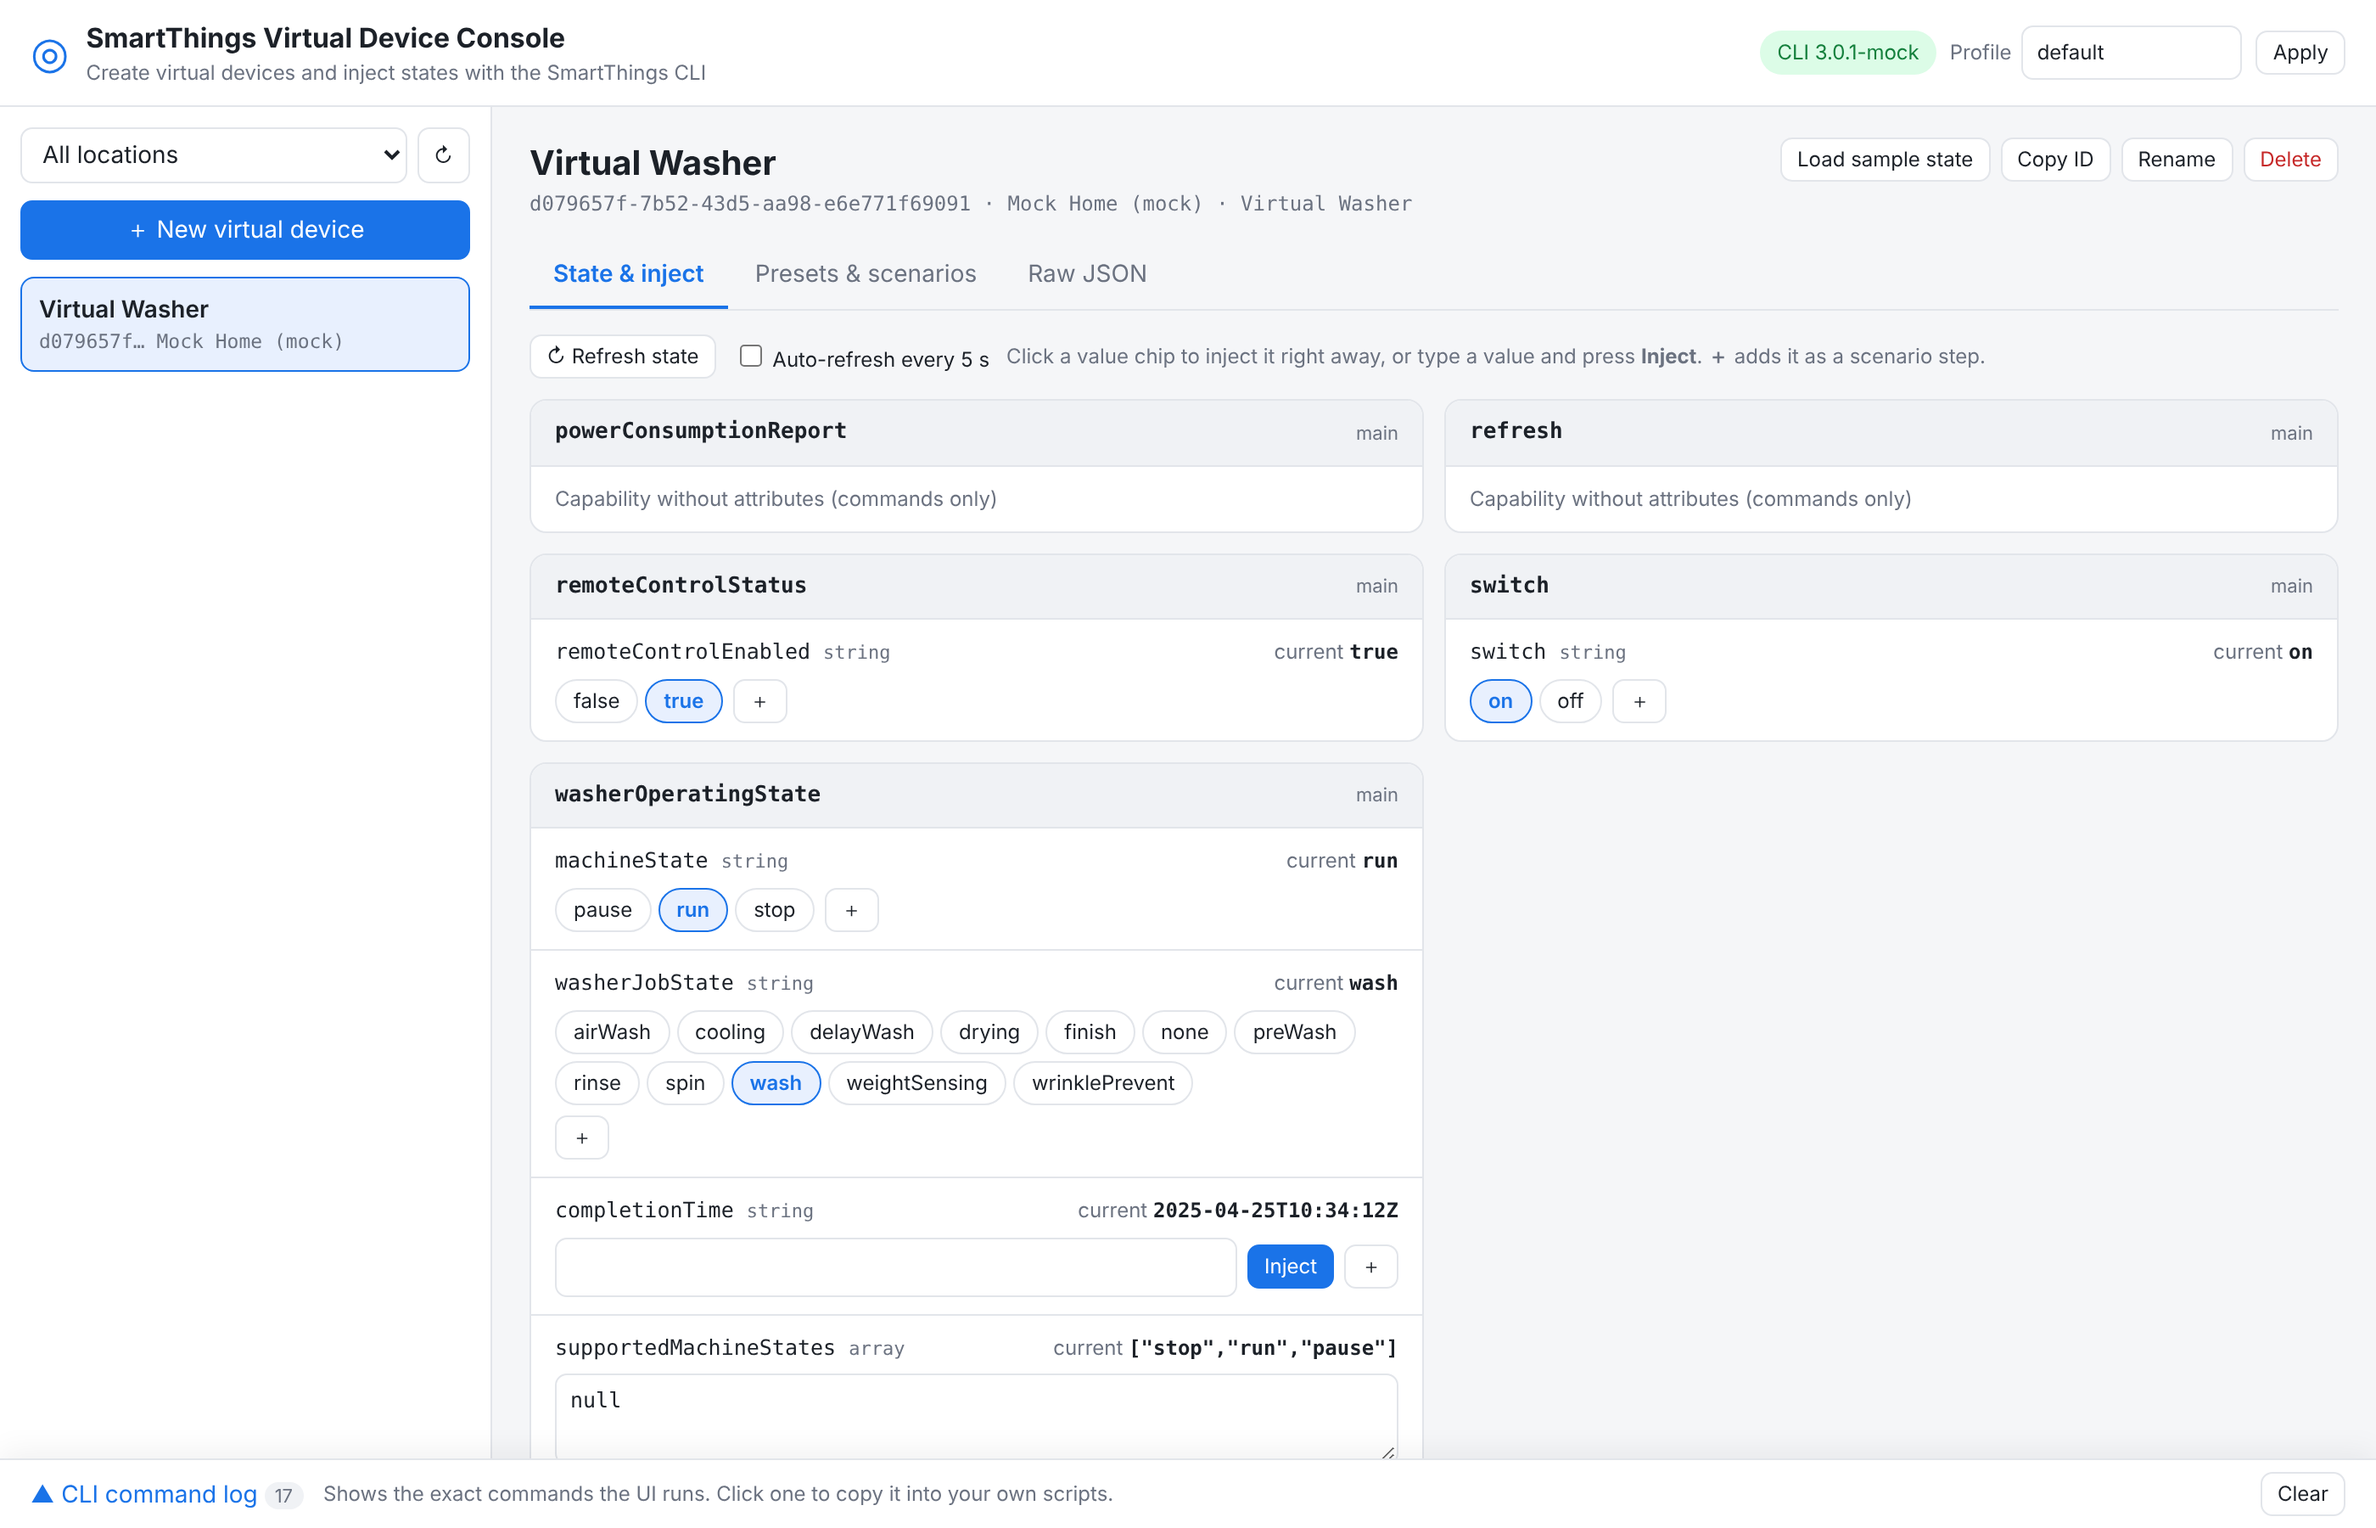
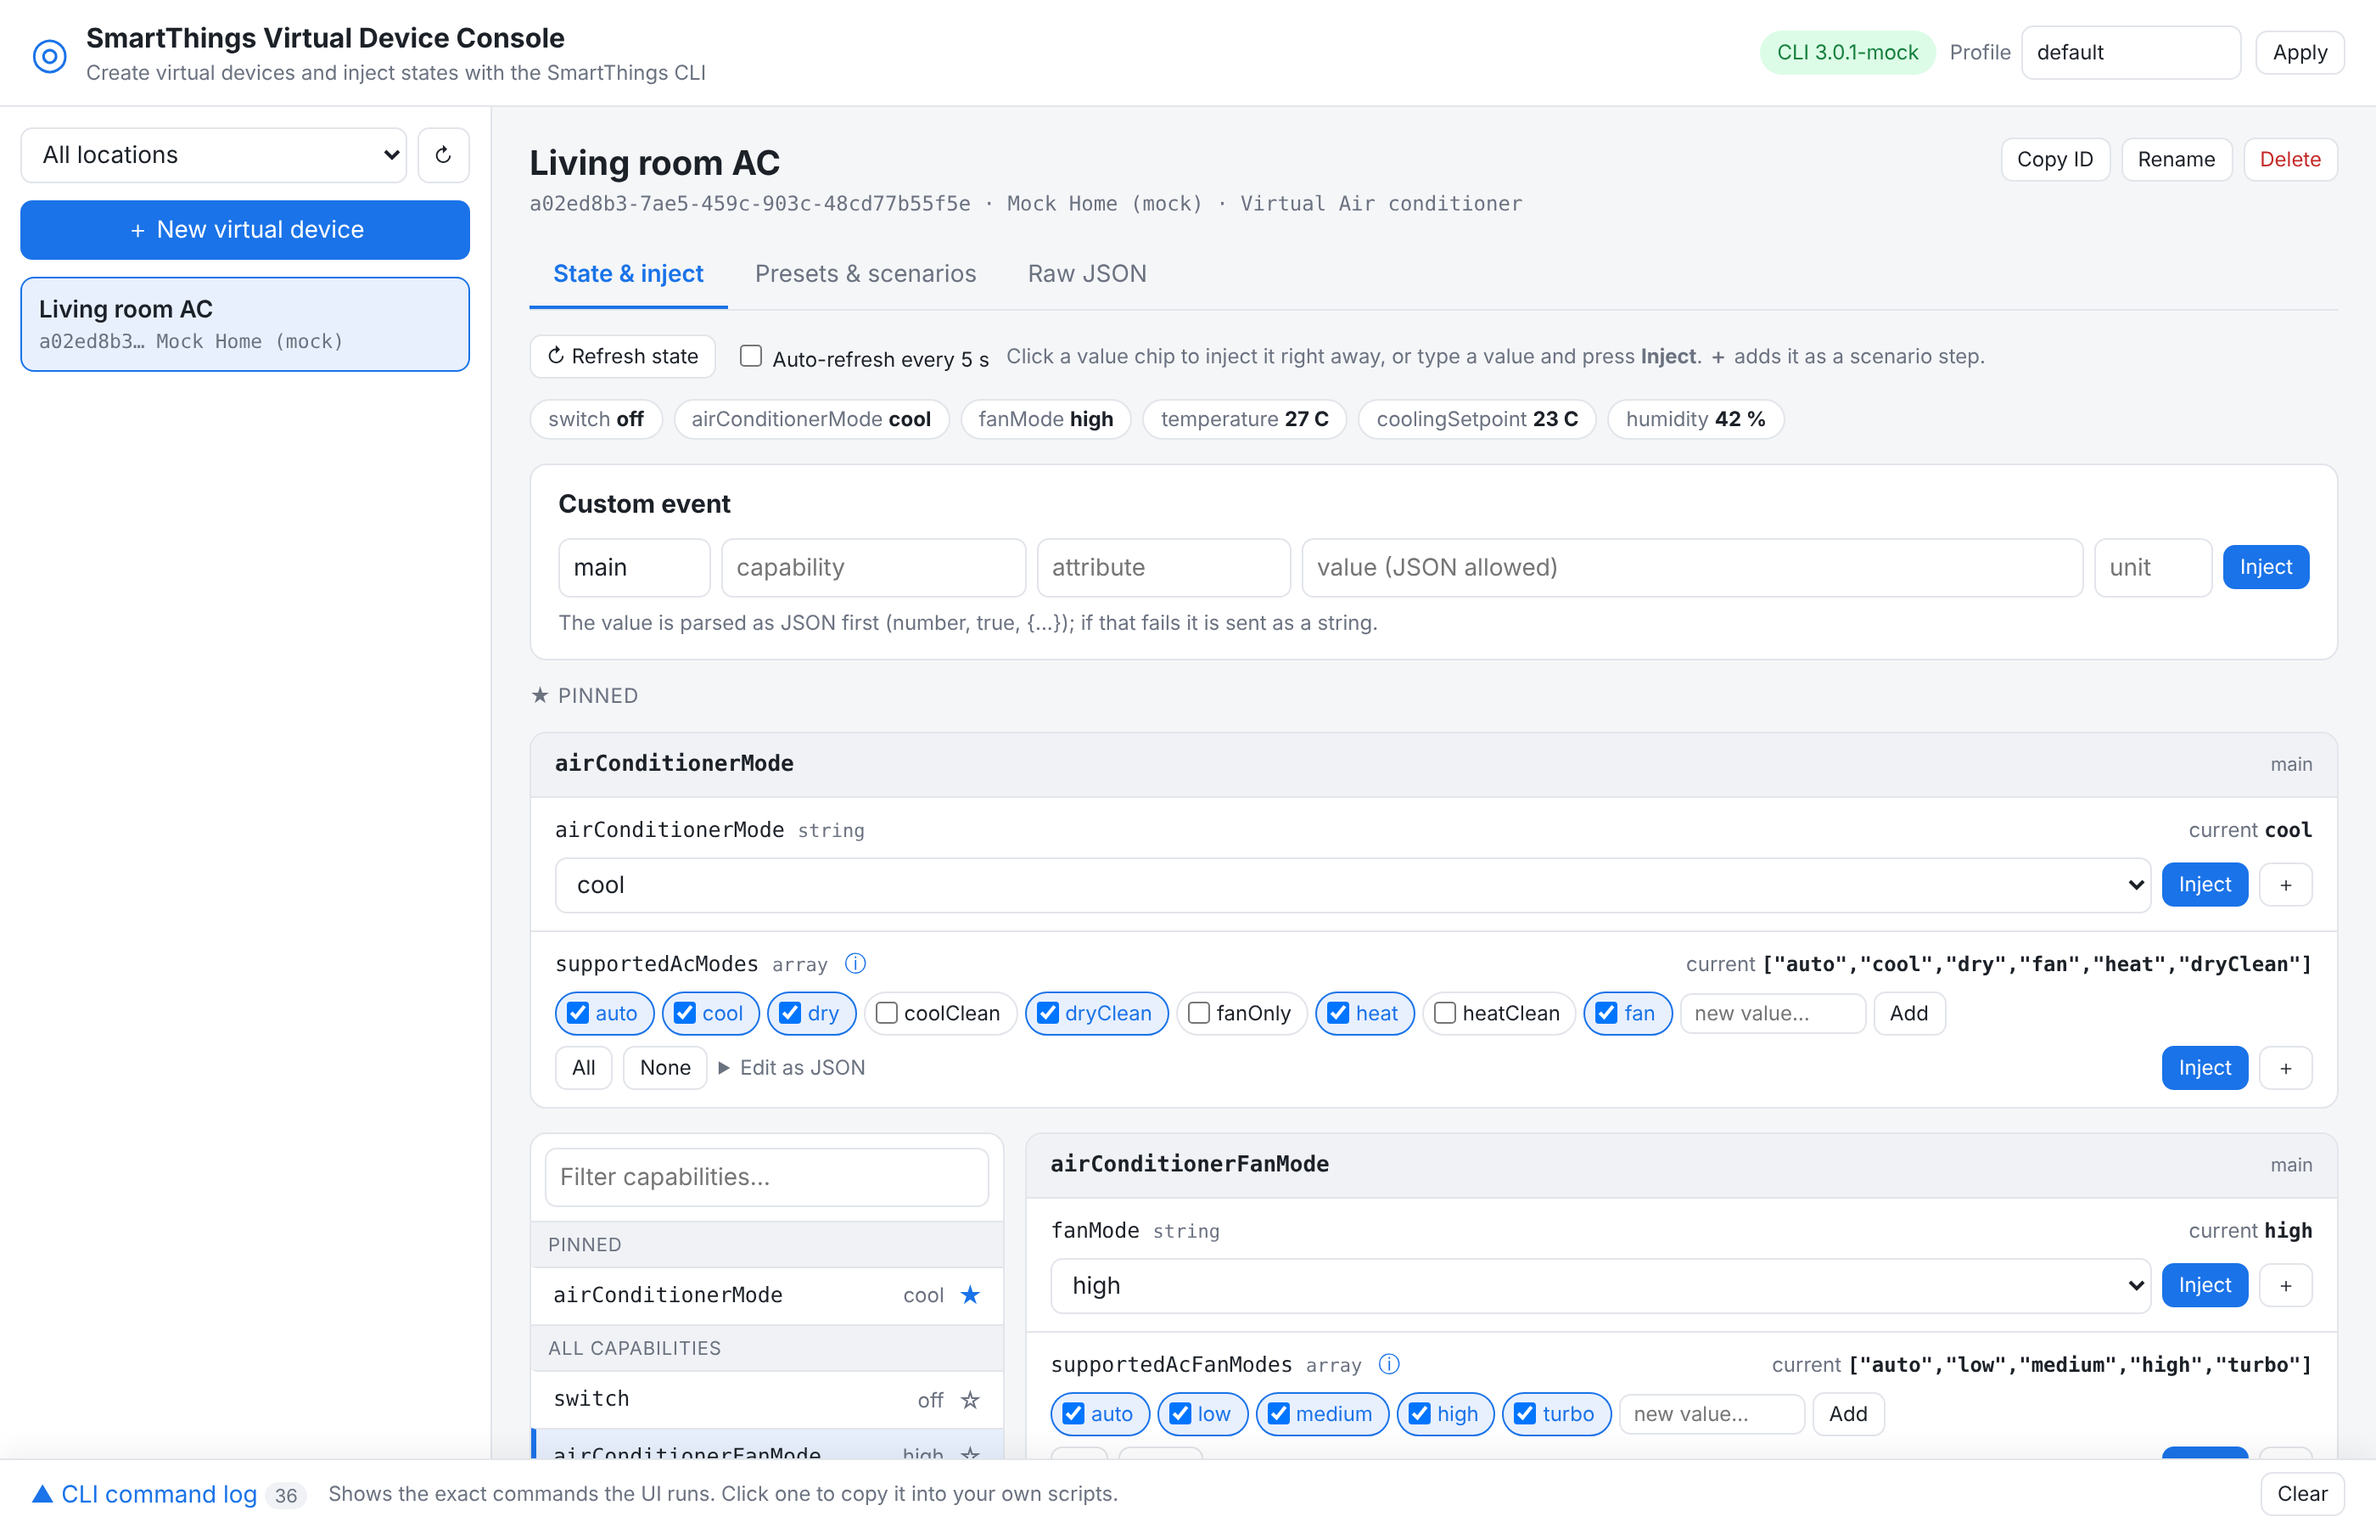
Document today's UI changes in README and refresh screenshot (#5)
Claude-Session: https://claude.ai/code/session_01KswgxVqma3ZtuyPV9o17wQ

diff --git a/README.md b/README.md
@@ -10,6 +10,7 @@ A local GUI that wraps the [SmartThings CLI](https://github.com/SmartThingsCommu
 - The server listens on `127.0.0.1` only and rejects requests from other origins.
 - Every CLI command the UI runs is shown in the **CLI command log** at the bottom, so you can copy it into your own scripts.
 - Write operations (inject events, rename, delete) are only allowed on virtual devices.
+- Runs on macOS, Windows and Linux.
 
 ## Quick start
 
@@ -37,7 +38,7 @@ Run:
 
 ```bash
 # run without installing anything
-npx github:Twohyunpa/SmartThings_Virtual
+npx --yes github:Twohyunpa/SmartThings_Virtual
 
 # or clone and run (Windows / macOS / Linux)
 git clone https://github.com/Twohyunpa/SmartThings_Virtual.git
@@ -74,17 +75,25 @@ npm test
 ## Features
 
 **Create virtual devices**
+
+The **New virtual device** panel has four tabs, and each tab shows a short explanation of what it does and when to use it.
+
 - Appliance templates: 35 real models (washers, dryers, dishwashers, air conditioners, air purifiers, refrigerators, robot vacuums, ovens, a cooktop, a range hood, a TV, a soundbar ...). Their capability lists and sample attribute values are taken from real devices, see [Where the templates come from](#where-the-templates-come-from). You can open the profile JSON and add or remove capabilities.
 - Standard prototypes such as `VIRTUAL_SWITCH` and `VIRTUAL_MOTION_SENSOR` (17 in total, `virtualdevices:create-standard`).
 - Create from one of your own device profile IDs, or paste a profile JSON (`virtualdevices:create`).
 - The dry-run button shows the request JSON without creating anything.
 
 **State & inject**
-- A capability list on the left (with each capability's current value, a filter box and pins) and the details of the selected capability on the right; a one-line state summary sits on top. Your last selection and pins are remembered per device.
+- Two-pane layout: a capability list on the left (each entry shows its current value, with a filter box) and the details of the selected capability on the right.
+- A one-line **state summary** bar sits on top; click an item to jump to that capability.
+- **Custom event** (component / capability / attribute / value / unit) is always at the top of the right pane.
+- Star (☆/★) the capabilities you use often. Pinned capabilities move to a *Pinned* group at the top of the list and stay open right under Custom event, in pin order. Your last selection and pins are remembered per device.
 - Shows the attributes of every component / capability with their current values.
 - Controls are generated from the capability definitions: enums become chips (click to inject immediately), numbers get a slider / input plus a unit, arrays and objects take JSON.
 - Values that have a matching `supported*` / `available*` list (e.g. `fanMode` ↔ `supportedAcFanModes` / `availableAcFanModes`) become a dropdown filled from the device's **current** list, and the lists themselves become checkboxes. The options follow the device state, so after you inject a new supported list the dropdown updates. Pick **Custom value…** (or **Edit as JSON**) to inject a value outside the list, e.g. to test how an app handles invalid input. Values outside `available*` are marked ⚠.
-- Optional 5-second auto-refresh, and a custom event form (component / capability / attribute / value / unit).
+- `supported*` / `available*` lists are edited as a checkbox list: tick or untick values, type a new one and press **Enter** or click **Add**, then **Inject**. A value still in the text box is included when you inject.
+- An **ⓘ** button next to every `supported*` / `available*` attribute explains the difference: `supported*` is what the device model can ever do, `available*` is what can be chosen right now, a subset that changes with the current mode. Tip: inject a shorter `available*` list to check that your app hides or blocks the rest.
+- Optional 5-second auto-refresh.
 
 **Presets & scenarios**
 - Template presets (e.g. start wash → rinse → spin → finished) appear automatically when they match the device's capabilities.
@@ -92,6 +101,8 @@ npm test
 - Scenarios are stored in your browser (localStorage) and can be imported / exported as JSON.
 
 **Also**: rename, delete, raw JSON view (`devices`, `devices:status`), and the CLI command log (click an entry to copy it).
+
+**Error handling**: when a CLI command fails, the error is shown in the UI with a clearer message and also printed to the terminal (`[cli failed] ...`). The server keeps running after unexpected errors, and tells you if port 3700 is already in use (start on another port with `PORT=3800 npm start`).
 
 ## Where the templates come from
 

diff --git a/README.ko.md b/README.ko.md
@@ -36,7 +36,7 @@ SmartThings CLI(`smartthings`)를 감싼 로컬 GUI입니다. 브라우저에서
 
 ```bash
 # 설치 없이 바로 실행
-npx github:Twohyunpa/SmartThings_Virtual
+npx --yes github:Twohyunpa/SmartThings_Virtual
 
 # 또는 저장소를 받아서 실행 (Windows/macOS/Linux 공통)
 git clone https://github.com/Twohyunpa/SmartThings_Virtual.git
@@ -74,16 +74,23 @@ npm test
 ## 기능
 
 **가상 기기 만들기**
-- 삼성 가전 템플릿: 세탁기, 건조기, 에어컨, 공기청정기, 로봇청소기, 식기세척기, TV, 냉장고. 프로필 정의(JSON)를 열어서 capability를 더하거나 뺄 수 있습니다. 템플릿은 `templates/samsung-appliances.json` 에서 고치면 됩니다.
+**New virtual device** 패널의 탭 4개에는 각각 무엇을 하는 탭이고 언제 쓰는지 짧은 설명이 붙어 있습니다.
+
+- Appliance templates: 세탁기, 건조기, 식기세척기, 에어컨, 공기청정기, 냉장고, 로봇청소기, 오븐, TV 등 실제 모델 35종. 프로필 정의(JSON)를 열어서 capability를 더하거나 뺄 수 있습니다.
 - 표준 프로토타입: `VIRTUAL_SWITCH`, `VIRTUAL_MOTION_SENSOR` 등 17종 (`virtualdevices:create-standard`)
 - 내 디바이스 프로필 ID로 만들기, 또는 프로필 JSON 직접 입력 (`virtualdevices:create`)
 - dry-run 버튼으로 실제 생성 없이 요청 JSON을 확인할 수 있습니다.
 
 **상태 & 주입**
+- 왼쪽은 capability 목록(현재 값 표시, 필터), 오른쪽은 선택한 capability의 상세입니다. 맨 위에는 한 줄 상태 요약 바가 있고, 누르면 해당 capability로 이동합니다.
+- **Custom event**(component/capability/attribute/value/unit 직접 입력)는 오른쪽 맨 위에 항상 있습니다.
+- 자주 쓰는 capability는 별표(☆/★)로 고정하세요. 목록 맨 위 *Pinned* 그룹으로 올라가고, Custom event 바로 아래에 항상 펼쳐집니다. 마지막 선택과 고정 목록은 기기별로 기억됩니다.
 - 기기의 component/capability 별로 속성과 현재 값이 표시됩니다.
 - capability 정의를 읽어 컨트롤을 자동으로 만듭니다: enum은 칩(누르면 바로 주입), 숫자는 슬라이더/입력 + 단위, 배열/객체는 JSON 입력.
 - 짝이 되는 `supported*` / `available*` 목록이 있는 값(예: `fanMode` ↔ `supportedAcFanModes` / `availableAcFanModes`)은 기기의 **현재** 목록으로 채운 드롭다운이 되고, 목록 자체는 체크박스로 고릅니다. 옵션은 기기 상태를 따라가므로 supported 목록을 새로 주입하면 드롭다운도 바뀝니다. 목록에 없는 값을 일부러 넣으려면 **Custom value…**(또는 **Edit as JSON**)을 쓰세요. `available*`에 없는 값은 ⚠ 로 표시됩니다.
-- 5초 자동 새로고침, 직접 입력(component/capability/attribute/value/unit)도 지원합니다.
+- `supported*` / `available*` 목록은 체크박스 목록으로 편집합니다. 새 값은 입력 후 **Enter** 또는 **Add**, 그리고 **Inject**. 입력창에 남아 있는 값도 주입할 때 포함됩니다.
+- `supported*` / `available*` 속성 옆 **ⓘ** 버튼이 차이를 설명합니다: `supported*`는 기기가 할 수 있는 전체, `available*`는 지금(현재 모드에서) 고를 수 있는 부분집합입니다.
+- 5초 자동 새로고침.
 
 **프리셋 & 시나리오**
 - 템플릿 프리셋(예: 세탁 시작 → 헹굼 → 탈수 → 완료)이 기기 capability와 맞으면 자동으로 보입니다.
@@ -91,6 +98,8 @@ npm test
 - 시나리오는 브라우저(localStorage)에 저장되고 JSON으로 가져오기/내보내기가 됩니다.
 
 **기타**: 이름 변경, 삭제, 원본 JSON(`devices`, `devices:status`) 보기, CLI 명령 로그(클릭하면 복사).
+
+**오류 처리**: CLI 명령이 실패하면 UI에 알기 쉬운 메시지가 뜨고 터미널에도 `[cli failed] ...`로 출력됩니다. 예상치 못한 오류가 나도 서버는 계속 돌아가고, 3700 포트가 이미 쓰이고 있으면 알려 줍니다(`PORT=3800 npm start`로 다른 포트에서 실행).
 
 ## 템플릿 출처
 
